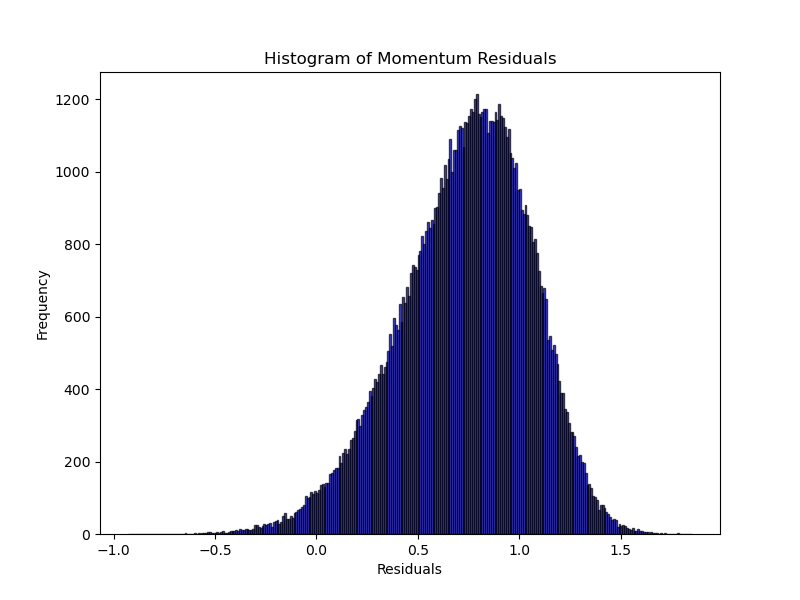
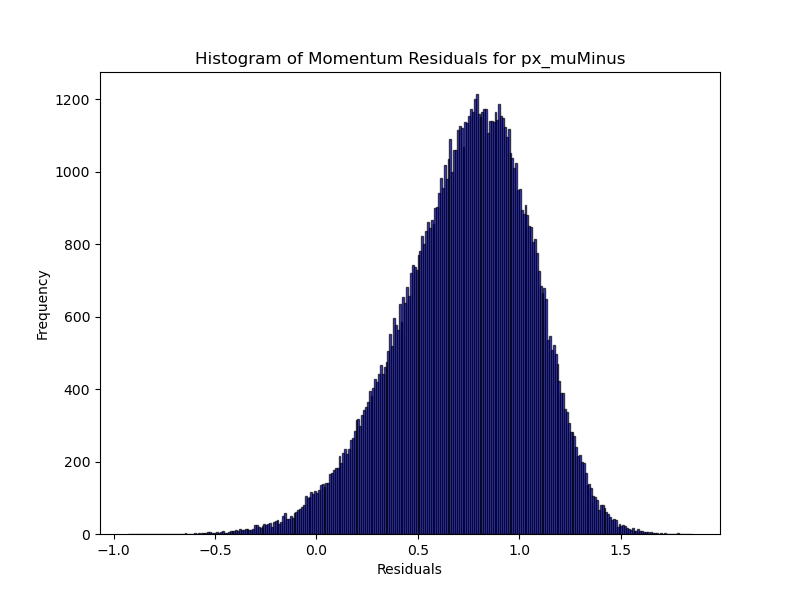
Pushed latest version of code - Donghwa

Changed region(s): [[0.25, 0.09, 0.7812, 0.12]]

diff --git a/QTracker_prod/evaluate_mom.py b/QTracker_prod/evaluate_mom.py
@@ -8,7 +8,7 @@ from typing import Tuple
 def plot_residuals(residuals: np.ndarray, res_type: str) -> None:
     plt.figure(figsize=(8, 6))
     plt.hist(residuals, bins=300, alpha=0.7, color='b', edgecolor='black')
-    plt.title('Histogram of Momentum Residuals')
+    plt.title(f'Histogram of Momentum Residuals for {res_type}')
     plt.xlabel('Residuals')
     plt.ylabel('Frequency')
     
